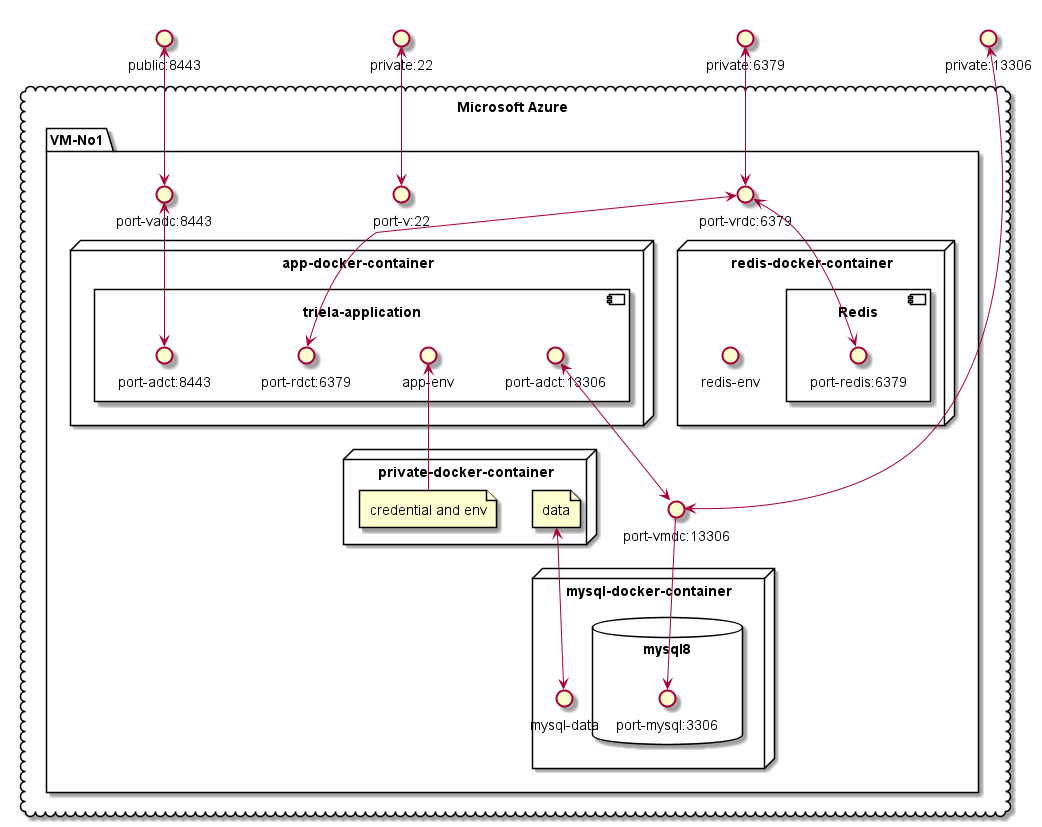
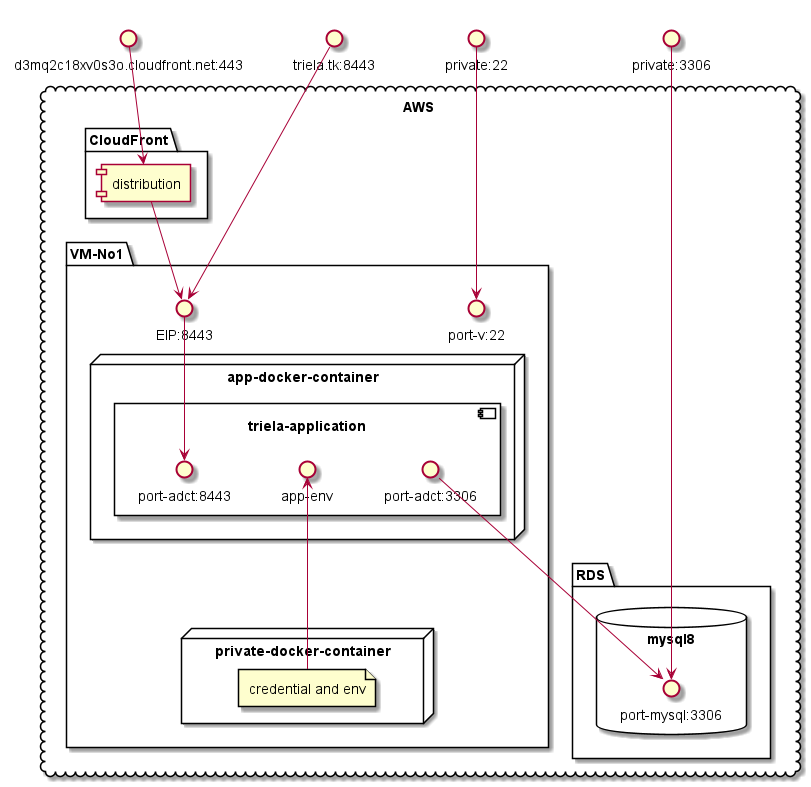
#27

diff --git a/README.md b/README.md
@@ -7,21 +7,25 @@
  # component
  ![img2](Resource/README.img2.png)
  
- ## component
-  - Microsoft Azure: https://azure.microsoft.com/ja-jp/
+ ## infra
+  - AWS: https://aws.amazon.com/jp/
+    - CloudFront
+    - EC2
+    - RDS
   - GitHub: https://github.com/
-  - Docker: https://www.docker.com/
+    - this repository
   - DockerHub: https://hub.docker.com/
     - gnagaoka/triela-app:latest (public)
     - gnagaoka/triela-private:latest (private)
+## component 
   - Java 11 later: https://openjdk.java.net/projects/jdk/11/
   - MySQL 8 later: https://www.mysql.com/jp/
   - cURL: https://curl.haxx.se/
-  - Redis: https://redis.io/
+  - Docker: https://www.docker.com/
   
 ## app
   - gradle: https://gradle.org/
-  - Spring boot 2.3 later: http://spring.io/projects/spring-boot
+  - Spring boot 2 later: http://spring.io/projects/spring-boot
   - Spring security oauth2 autoconfig: https://docs.spring.io/spring-security-oauth2-boot/docs/current/reference/htmlsingle/
   - OkHttp3: http://square.github.io/okhttp/
   - retrofit: https://square.github.io/retrofit/
